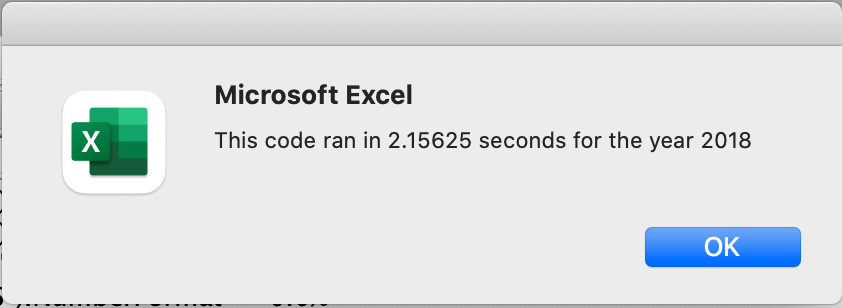
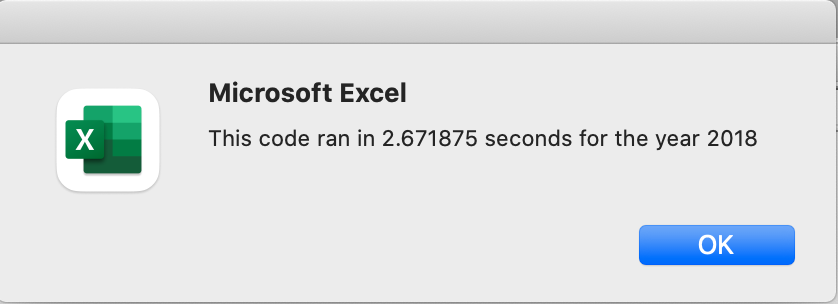
correcting timer images

diff --git a/Written Analysis of Results.md b/Written Analysis of Results.md
@@ -31,7 +31,7 @@ This project required refactoring a pre-written code
 
 | | **Original Script** | **Refactored Script** |
 | --- | --- | --- |
-| 2017 | ![All Stocks (2017)](/Resources/OgCodeTimer_2017.png) | ![All Stocks (2017)](/Resources/RefactorCodeTimer_2017.png) |
+| 2017 | ![All Stocks (2017)](/Resources/OgTimer_2017.png) | ![All Stocks (2017)](/Resources/RefactorCodeTimer_2017.png) |
 | 2018 | ![All Stocks (2017)](/Resources/OgTimer_2018.png) | ![All Stocks (2017)](/Resources/RefactorCodeTimer_2018.png) |
 
 >*Please note these were the times achieved when the code was first run after opening the file. Subsequent runs give different times. To get an overall unbiased contrast the file was re-opened every time to run the different codes for the different years*
